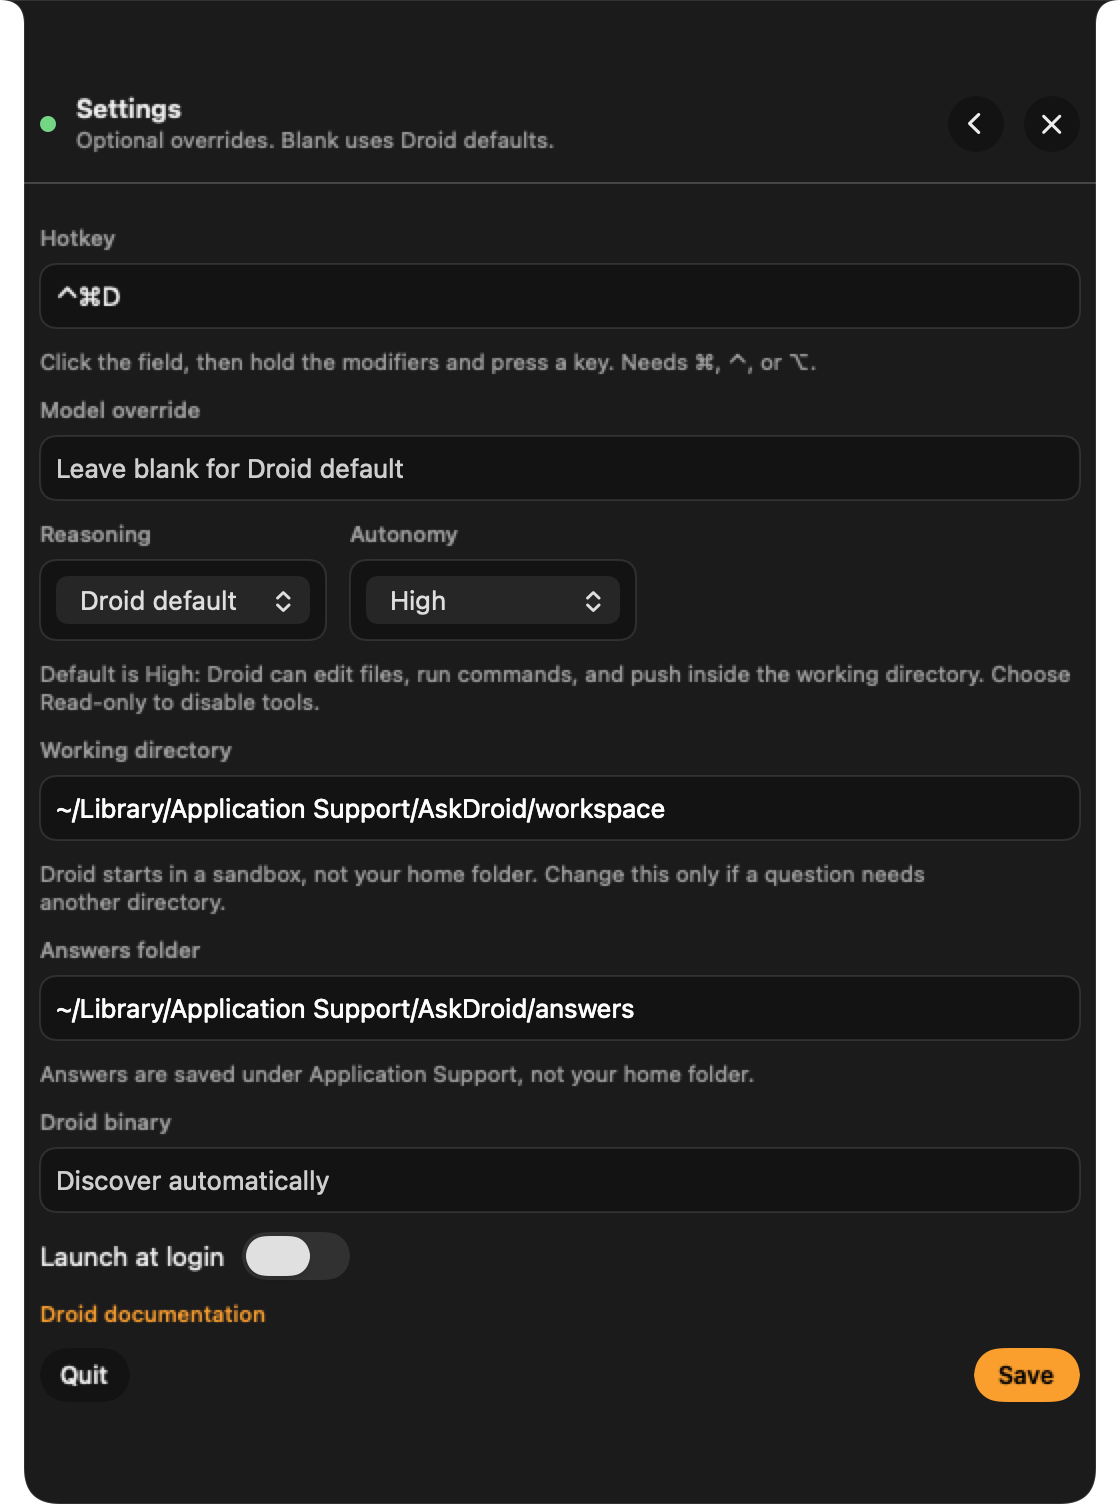
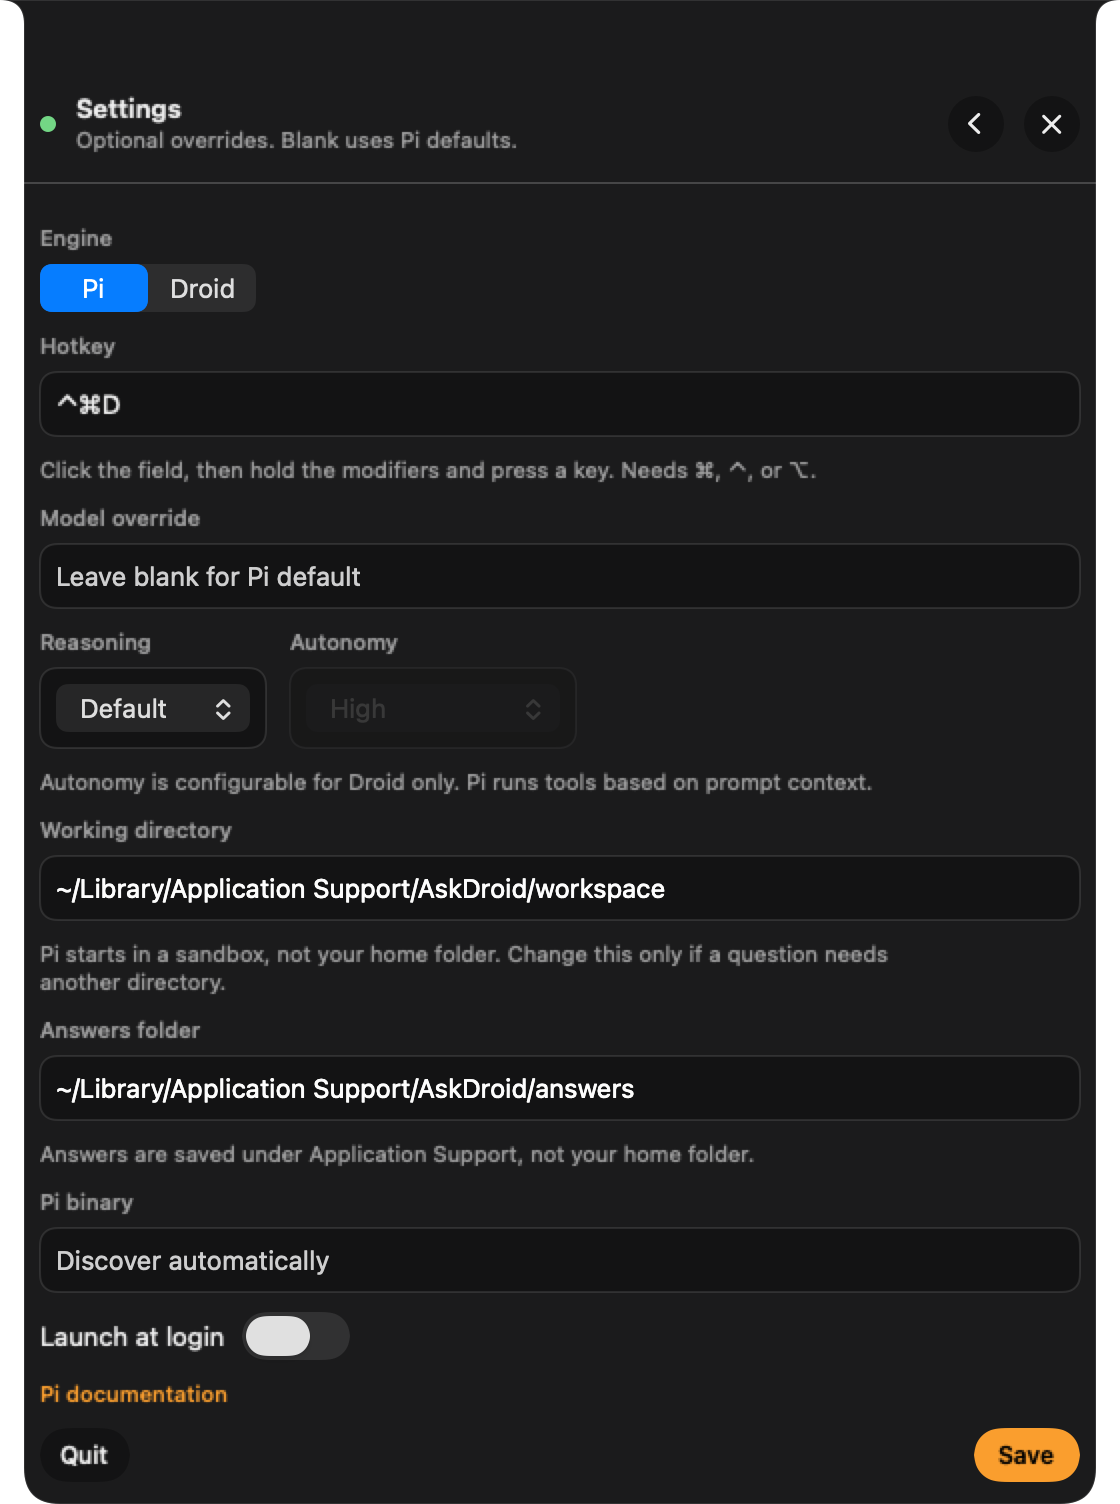
feat(hud): per-engine settings and engine-named copy
Add a segmented Pi/Droid engine picker at the top of Settings, scope the reasoning choices to the engine's superset (and disable autonomy for Pi, which drives tools from prompt context), and adapt the model placeholder, binary field, docs link, and explanatory copy to the selected engine. The composer and header now use the engine's name. Regenerate the settings screenshot.

Changed region(s): [[0.0312, 0.1562, 0.9688, 1.0], [0.875, 0.875, 0.9688, 1.0], [0.375, 0.0625, 0.4375, 0.0938]]

diff --git a/Sources/AskDroid/HUD/SettingsPane.swift b/Sources/AskDroid/HUD/SettingsPane.swift
@@ -5,6 +5,20 @@ struct SettingsPane: View {
 
     var body: some View {
         VStack(alignment: .leading, spacing: 10) {
+            labeled("Engine") {
+                Picker("", selection: $session.settings.engine) {
+                    ForEach(Engine.allCases) { item in
+                        Text(item.title).tag(item)
+                    }
+                }
+                .labelsHidden()
+                .pickerStyle(.segmented)
+                .onChange(of: session.settings.engine) { _, newEngine in
+                    if newEngine == .droid && session.settings.reasoning.droidProtocolValue == nil && session.settings.reasoning != .defaultLevel {
+                        session.settings.reasoning = .defaultLevel
+                    }
+                }
+            }
             labeled("Hotkey") {
                 HotkeyRecorder(
                     keyCode: $session.settings.hotkeyKeyCode,
@@ -15,12 +29,12 @@ struct SettingsPane: View {
                 .font(.system(size: 11))
                 .foregroundStyle(Theme.mute)
             labeled("Model override") {
-                SettingsTextField(placeholder: "Leave blank for Droid default", text: $session.settings.modelOverride)
+                SettingsTextField(placeholder: "Leave blank for \(session.settings.engine.title) default", text: $session.settings.modelOverride)
             }
             HStack(spacing: 12) {
                 labeled("Reasoning") {
                     Picker("", selection: $session.settings.reasoning) {
-                        ForEach(ReasoningSetting.allCases) { item in
+                        ForEach(ReasoningSetting.cases(for: session.settings.engine)) { item in
                             Text(item.title).tag(item)
                         }
                     }
@@ -39,15 +53,23 @@ struct SettingsPane: View {
                     .pickerStyle(.menu)
                     .padding(Theme.settingsControlPadding)
                     .settingsControlStyle()
+                    .disabled(session.settings.engine == .pi)
+                    .opacity(session.settings.engine == .pi ? 0.5 : 1.0)
                 }
             }
-            Text("Default is High: Droid can edit files, run commands, and push inside the working directory. Choose Read-only to disable tools.")
-                .font(.system(size: 11))
-                .foregroundStyle(Theme.mute)
+            if session.settings.engine == .droid {
+                Text("Default is High: Droid can edit files, run commands, and push inside the working directory. Choose Read-only to disable tools.")
+                    .font(.system(size: 11))
+                    .foregroundStyle(Theme.mute)
+            } else {
+                Text("Autonomy is configurable for Droid only. Pi runs tools based on prompt context.")
+                    .font(.system(size: 11))
+                    .foregroundStyle(Theme.mute)
+            }
             labeled("Working directory") {
                 SettingsTextField(placeholder: AppSettings.defaultWorkingDirectory, text: $session.settings.workingDirectory)
             }
-            Text("Droid starts in a sandbox, not your home folder. Change this only if a question needs another directory.")
+            Text("\(session.settings.engine.title) starts in a sandbox, not your home folder. Change this only if a question needs another directory.")
                 .font(.system(size: 11))
                 .foregroundStyle(Theme.mute)
             labeled("Answers folder") {
@@ -56,16 +78,26 @@ struct SettingsPane: View {
             Text("Answers are saved under Application Support, not your home folder.")
                 .font(.system(size: 11))
                 .foregroundStyle(Theme.mute)
-            labeled("Droid binary") {
-                SettingsTextField(placeholder: "Discover automatically", text: $session.settings.droidPath)
+            labeled("\(session.settings.engine.title) binary") {
+                if session.settings.engine == .droid {
+                    SettingsTextField(placeholder: "Discover automatically", text: $session.settings.droidPath)
+                } else {
+                    SettingsTextField(placeholder: "Discover automatically", text: $session.settings.piPath)
+                }
             }
             Toggle("Launch at login", isOn: $session.settings.launchAtLogin)
                 .toggleStyle(.switch)
                 .settingsControlStyle(showsWell: false)
                 .tint(Theme.accent)
-            Link("Droid documentation", destination: URL(string: "https://docs.factory.ai/droid-exec/overview")!)
-                .font(.system(size: 11, weight: .medium))
-                .foregroundStyle(Theme.accent)
+            if session.settings.engine == .droid {
+                Link("Droid documentation", destination: URL(string: "https://docs.factory.ai/droid-exec/overview")!)
+                    .font(.system(size: 11, weight: .medium))
+                    .foregroundStyle(Theme.accent)
+            } else {
+                Link("Pi documentation", destination: URL(string: "https://pi.dev/docs/latest")!)
+                    .font(.system(size: 11, weight: .medium))
+                    .foregroundStyle(Theme.accent)
+            }
             HStack {
                 Button("Quit", action: session.quit)
                     .buttonStyle(GhostButtonStyle())

diff --git a/Sources/AskDroid/HUD/HUDRootView.swift b/Sources/AskDroid/HUD/HUDRootView.swift
@@ -217,7 +217,7 @@ struct ExpandedHUD: View {
                 Text(session.isSettingsOpen ? "Settings" : "AskDroid")
                     .font(.system(size: 13, weight: .semibold))
                     .foregroundStyle(Theme.ink)
-                Text(session.isSettingsOpen ? "Optional overrides. Blank uses Droid defaults." : session.activity.isEmpty ? "\(session.settings.hotkeyDisplay) · ⌘↩ ask · Esc hide" : session.activity)
+                Text(session.isSettingsOpen ? "Optional overrides. Blank uses \(session.settings.engine.title) defaults." : session.activity.isEmpty ? "\(session.settings.hotkeyDisplay) · ⌘↩ ask · Esc hide" : session.activity)
                     .font(.system(size: 11))
                     .foregroundStyle(Theme.mute)
                     .lineLimit(1)
@@ -276,7 +276,7 @@ struct ExpandedHUD: View {
 
             PromptEditor(
                 text: $session.prompt,
-                placeholder: session.images.isEmpty ? "Ask Droid anything" : "Add a note, or just send the image",
+                placeholder: session.images.isEmpty ? "Ask \(session.settings.engine.title) anything" : "Add a note, or just send the image",
                 onSubmit: session.submit,
                 onPasteImages: { session.attachFromPasteboard() },
                 onFocusChange: { fieldFocused = $0 }
